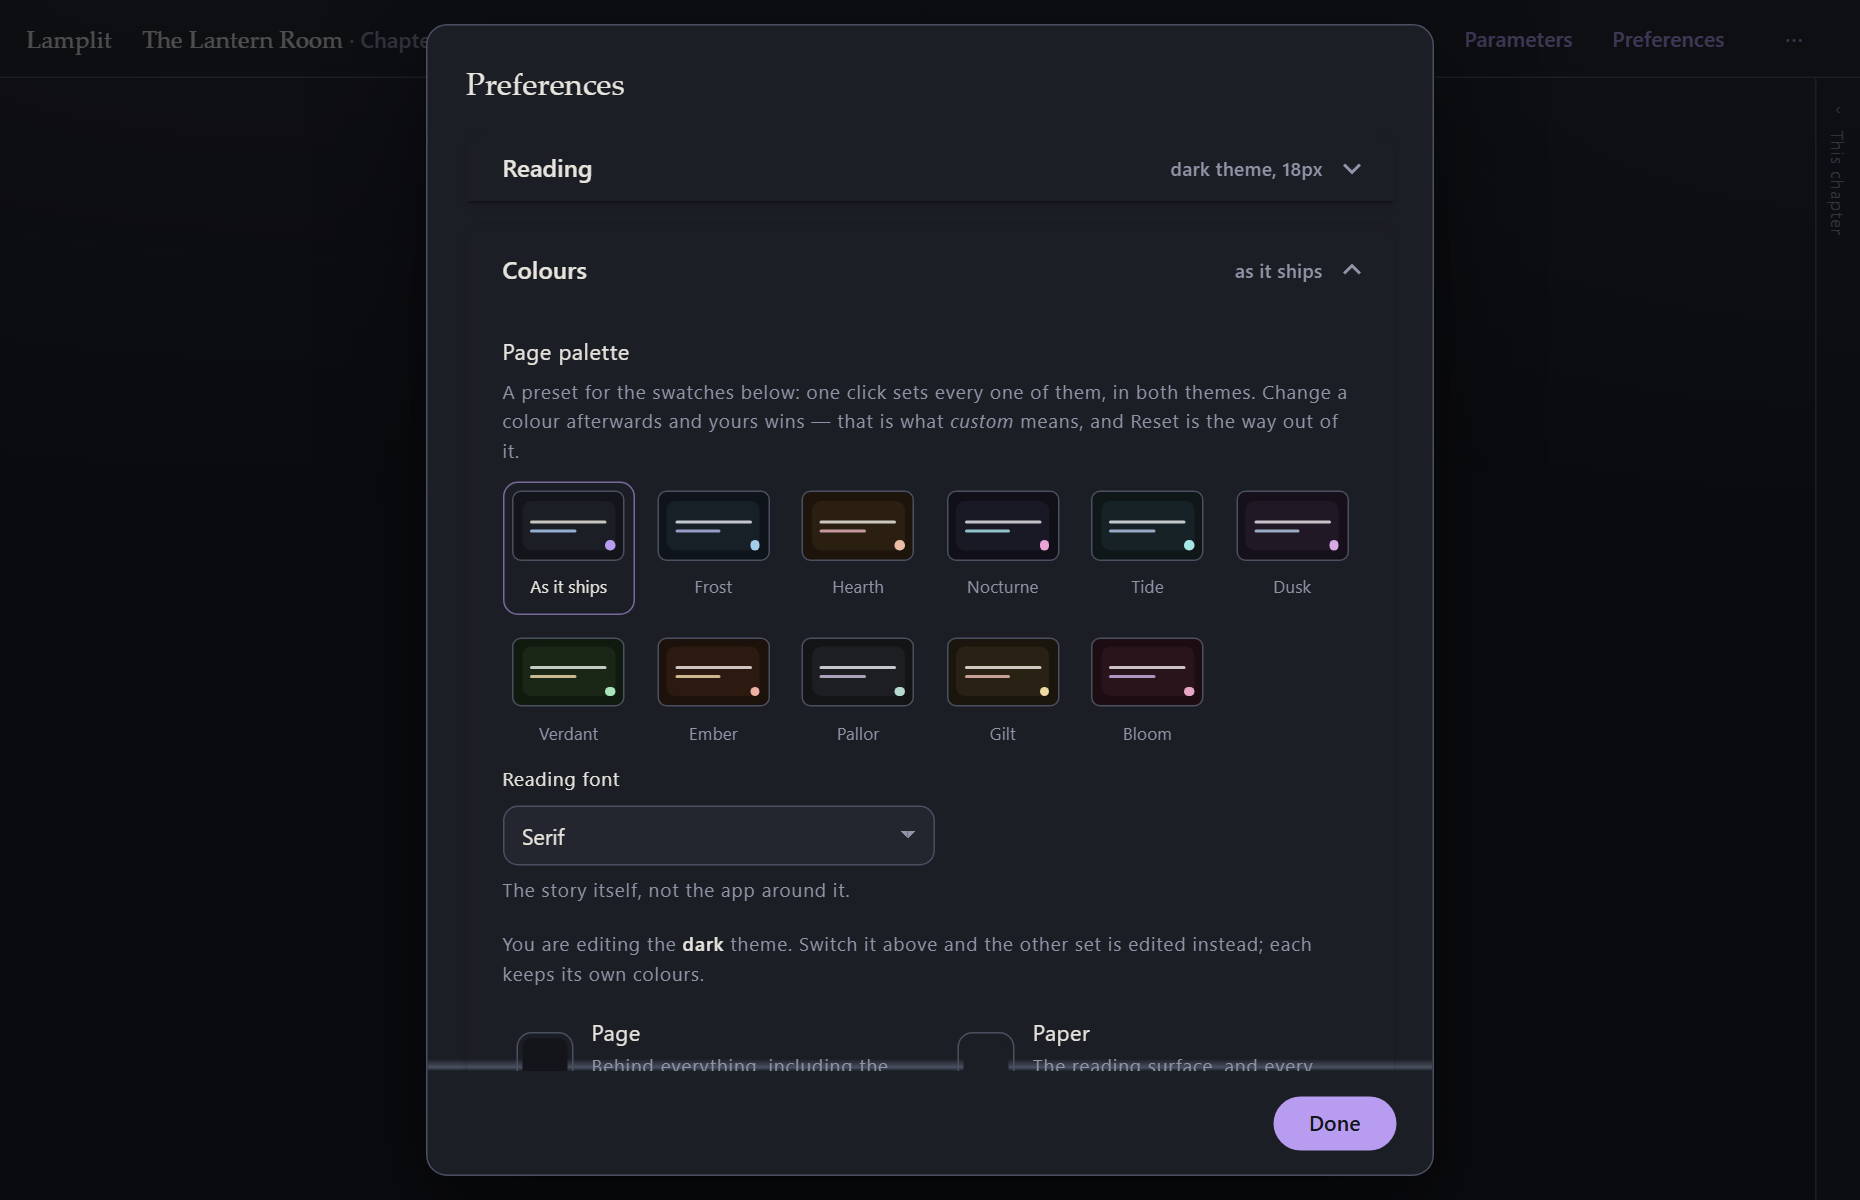
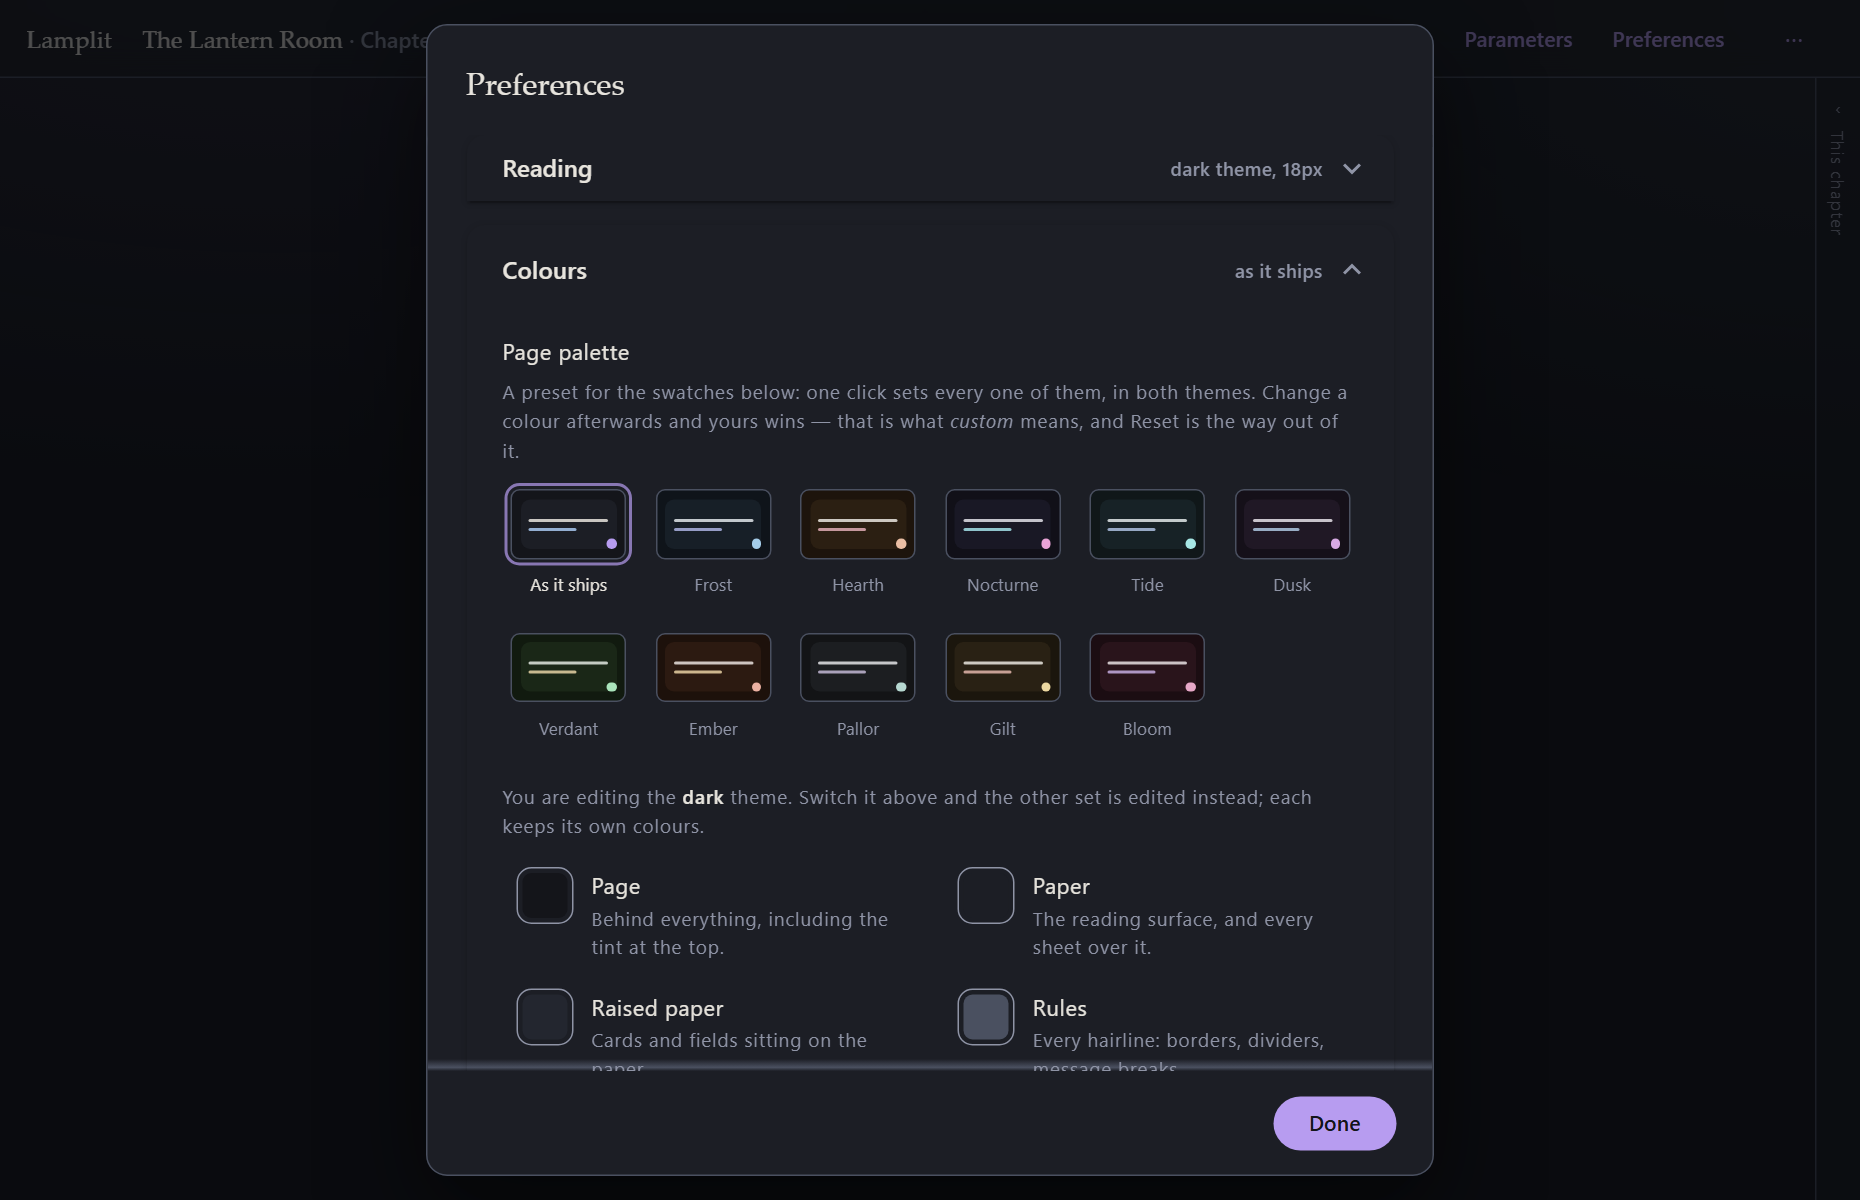
Swatches with a ring you can see, rows that line up, and the font beside the size
Four of the eleven colour swatches were empty boxes. Page, Paper and Raised
paper are within 1.2:1 of the paper they are drawn on, and Rules *is* that
hairline, so the ring round the picker is the whole of what says a swatch is
there — and the ring was `--li-border`, which the app ships at about 2:1 on
purpose. It is `--li-muted` here, over 5:1 in either theme: the one place the
app's own border is the wrong line to draw, because everywhere else there is a
label or a fill saying what the box is and here there is neither.

The two columns drifted because the swatch centred its row. Two swatches share
a grid track, one hint wraps onto a second line and the other does not, and
centring put the two names ten pixels apart down a column meant to read as a
column. They start together now. Eleven names in two columns always leaves one
beside a hole, so the last one takes the row: `$last && $count % 2 === 1`, which
stays right if a twelfth colour is ever added.

The selected page tile was a border round the tile — preview, label and padding
— while the ten beside it showed only the preview's own hairline, which read as
a larger object sitting lower. The ring is now an outline round the preview
itself: outside the box, taking no room, so every page is the same size on the
same line whether it is the chosen one or not.

And **Reading font** was under Colours while **Text size** was under Reading:
two halves of how the story is set, in two sections. It is beside the size now,
[…]

diff --git a/app/src/app/features/preferences/preferences-dialog.ts b/app/src/app/features/preferences/preferences-dialog.ts
@@ -84,6 +84,23 @@ import { ReadAloud } from '../../shared/read-aloud.service';
               </mat-slider>
             </label>
 
+            <!-- The other half of how the story is set, beside the size of it.
+                 It lived under Colours, which is where the page is chosen and
+                 not where the story is set. -->
+            <li-field
+              label="Reading font"
+              class="font"
+              hint="The story itself, not the app around it."
+            >
+              <select (change)="setFont(value($event))">
+                @for (font of fonts; track font.key) {
+                  <option [value]="font.key" [selected]="font.key === ui().font">
+                    {{ font.label }}
+                  </option>
+                }
+              </select>
+            </li-field>
+
             <!-- Read aloud. The device's own voices and nothing sent anywhere,
                  so the list is whatever this machine happens to ship with —
                  which is why the choice is stored by name and a phone that has
@@ -183,28 +200,20 @@ import { ReadAloud } from '../../shared/read-aloud.service';
             }
           </div>
 
-          <li-field
-            label="Reading font"
-            class="font"
-            hint="The story itself, not the app around it."
-          >
-            <select (change)="setFont(value($event))">
-              @for (font of fonts; track font.key) {
-                <option [value]="font.key" [selected]="font.key === ui().font">
-                  {{ font.label }}
-                </option>
-              }
-            </select>
-          </li-field>
-
           <p class="li-hint editing">
             You are editing the <strong>{{ ui().theme }}</strong> theme. Switch it above and the
             other set is edited instead; each keeps its own colours.
           </p>
 
           <div class="swatches">
+            <!-- An odd number of colours in two columns leaves one of them
+                 beside an empty cell; the last one takes the row instead. -->
             @for (swatch of swatches(); track swatch.key) {
-              <label class="swatch" [class.custom]="swatch.custom">
+              <label
+                class="swatch"
+                [class.custom]="swatch.custom"
+                [class.wide]="$last && $count % 2 === 1"
+              >
                 <input
                   type="color"
                   [value]="swatch.colour"
@@ -538,7 +547,7 @@ import { ReadAloud } from '../../shared/read-aloud.service';
       align-items: stretch;
       gap: var(--li-space-xs);
       padding: var(--li-space-xs);
-      border: 1px solid transparent;
+      border: 0;
       border-radius: var(--li-radius-md);
       background: none;
       color: var(--li-muted);
@@ -552,9 +561,18 @@ import { ReadAloud } from '../../shared/read-aloud.service';
       }
 
       &.on {
-        border-color: color-mix(in srgb, var(--li-accent) 60%, transparent);
         color: var(--li-ink);
       }
+    }
+
+    /* The ring goes round the page being chosen rather than round the tile
+       holding it, and it is an outline, which is drawn outside the box and
+       takes no room: every preview is the same size and on the same line
+       whether it is the chosen one or not. As a border on the tile it read as
+       a larger, lower object than the nine beside it. */
+    .palette.on .preview {
+      outline: 2px solid color-mix(in srgb, var(--li-accent) 70%, transparent);
+      outline-offset: 2px;
     }
 
     /* A page in miniature: the tint behind, a sheet on it, two lines of story
@@ -614,9 +632,13 @@ import { ReadAloud } from '../../shared/read-aloud.service';
       gap: var(--li-space-xs) var(--li-space-lg);
     }
 
+    /* Started rather than centred, and this is the whole of why: two
+       swatches share a grid row, the hint under one of them wraps onto a
+       second line and the other does not, and centring puts the two names ten
+       pixels apart down a column that is meant to read as a column. */
     .swatch {
       display: flex;
-      align-items: center;
+      align-items: flex-start;
       gap: var(--li-space-md);
       padding: var(--li-space-xs) var(--li-space-sm);
       border: 1px solid transparent;
@@ -631,6 +653,10 @@ import { ReadAloud } from '../../shared/read-aloud.service';
       &.custom {
         border-color: color-mix(in srgb, var(--li-accent) 45%, transparent);
       }
+
+      &.wide {
+        grid-column: 1 / -1;
+      }
     }
 
     /* The native picker, with the browser's chrome around it pared back to a
@@ -640,7 +666,14 @@ import { ReadAloud } from '../../shared/read-aloud.service';
       width: 2.4rem;
       height: 2.4rem;
       padding: 0;
-      border: 1px solid var(--li-border);
+      /* Muted rather than the app's own border, which is the one place that
+         rule does not hold. Page, Paper and Raised paper are within 1.2:1 of
+         the paper a swatch is drawn on, and Rules is that border itself, so
+         the ring is the whole of what says a swatch is there — and at 2:1 it
+         left four of the eleven reading as empty boxes. Muted is over 5:1 on
+         either paper, which is the contrast it is picked for everywhere
+         else. */
+      border: 1px solid var(--li-muted);
       border-radius: var(--li-radius-md);
       background: none;
       cursor: pointer;
@@ -920,16 +953,20 @@ export class PreferencesDialog {
 
   protected readonly readingSummary = computed(() => {
     const ui = this.ui();
+    // The face only when it is not the one the app ships in, which is the same
+    // test `applyUi` makes before it writes the property at all.
+    const font = READING_FONTS.find((f) => f.key === ui.font);
+    const face = font && font !== READING_FONTS[0] ? `, ${font.label.toLowerCase()}` : '';
     const aloud = ui.readAloud ? ', read aloud' : '';
-    return `${ui.theme} theme, ${ui.fontSize}px${aloud}`;
+    return `${ui.theme} theme, ${ui.fontSize}px${face}${aloud}`;
   });
 
   protected readonly coloursSummary = computed(() => {
     const changed = this.swatches().filter((s) => s.custom).length;
-    const font = READING_FONTS.find((f) => f.key === this.ui().font)?.label.toLowerCase();
     if (changed) return `${changed} changed in ${this.ui().theme}`;
-    if (this.currentPalette()) return paletteLabel(this.currentPalette()).toLowerCase();
-    return font === 'serif' ? 'as it ships' : `${font}`;
+    return this.currentPalette()
+      ? paletteLabel(this.currentPalette()).toLowerCase()
+      : 'as it ships';
   });
 
   /**

diff --git a/e2e/specs/preferences.spec.ts b/e2e/specs/preferences.spec.ts
@@ -50,11 +50,14 @@ test.describe('preferences', () => {
     await app.visit();
     await openPreferences(page);
 
-    // The first section is open on arrival, with all four of its settings.
+    // The first section is open on arrival, with all of its settings — the
+    // font among them, because how the story is set is one question and the
+    // size of it was answered here while the face was answered under Colours.
     await expect(page.getByRole('switch', { name: 'Dark theme' })).toBeVisible();
     await expect(page.getByRole('switch', { name: 'Dialogue on its own line' })).toBeVisible();
     await expect(page.getByRole('switch', { name: 'Show token counts' })).toBeVisible();
     await expect(page.getByRole('slider', { name: 'Text size' })).toBeVisible();
+    await expect(page.getByLabel('Reading font')).toBeVisible();
 
     await page.getByRole('switch', { name: 'Show token counts' }).click();
     await expect
@@ -120,6 +123,112 @@ test.describe('preferences', () => {
     await expect.poll(() => pageColour(page)).toBe(rgb('#123456'));
   });
 
+  /**
+   * A colour swatch is the one control in the app whose fill is not the app's
+   * to choose: three of these are within 1.2:1 of the paper they sit on, and a
+   * fourth is that paper's own hairline. So the ring round them is measured
+   * rather than looked at — 3:1 is what WCAG 1.4.11 asks of the boundary that
+   * identifies a control, and under it a swatch the colour of the surface is
+   * an empty box.
+   */
+  test('every swatch is a box you can see, in both themes', async ({ page, app }) => {
+    await app.visit();
+    await openPreferences(page);
+    await page.getByRole('button', { name: 'Colours' }).first().click();
+
+    const worstRing = () =>
+      page.evaluate(() => {
+        // A custom property holds the `light-dark()` pair it was written as, so
+        // it has to be resolved the way the drawn colour was.
+        const resolve = (value: string) => {
+          const probe = document.createElement('span');
+          probe.style.color = value;
+          document.body.append(probe);
+          const colour = getComputedStyle(probe).color;
+          probe.remove();
+          return colour;
+        };
+        const channels = (colour: string) =>
+          [...colour.matchAll(/[\d.]+/g)].slice(0, 3).map((m) => Number(m[0]));
+        const luminance = (colour: string) => {
+          const [r, g, b] = channels(colour).map((c) => {
+            const channel = c / 255;
+            return channel <= 0.03928 ? channel / 12.92 : ((channel + 0.055) / 1.055) ** 2.4;
+          });
+          return 0.2126 * r + 0.7152 * g + 0.0722 * b;
+        };
+        const contrast = (a: string, b: string) => {
+          const one = luminance(a);
+          const two = luminance(b);
+          return (Math.max(one, two) + 0.05) / (Math.min(one, two) + 0.05);
+        };
+
+        const paper = resolve('var(--li-surface)');
+        const rings = [...document.querySelectorAll('.swatch input')].map(
+          (input) => getComputedStyle(input).borderTopColor,
+        );
+        return {
+          count: rings.length,
+          worst: Math.min(...rings.map((ring) => contrast(ring, paper))),
+        };
+      });
+
+    const dark = await worstRing();
+    expect(dark.count).toBe(11);
+    expect(dark.worst).toBeGreaterThanOrEqual(3);
+
+    await page.getByRole('switch', { name: 'Dark theme' }).click();
+    const light = await worstRing();
+    expect(light.worst).toBeGreaterThanOrEqual(3);
+  });
+
+  test('the swatches line up, and the odd one out takes a row', async ({ page, app }) => {
+    await app.visit();
+    await openPreferences(page);
+    await page.getByRole('button', { name: 'Colours' }).first().click();
+
+    const grid = await page.evaluate(() => {
+      const swatches = [...document.querySelectorAll('.swatches')][0]!.children;
+      return [...swatches].map((swatch) => ({
+        left: Math.round(swatch.getBoundingClientRect().x),
+        width: Math.round(swatch.getBoundingClientRect().width),
+        // What a reader lines a column up by: the name, not the box round it.
+        name: Math.round(swatch.querySelector('.name')!.getBoundingClientRect().y),
+      }));
+    });
+
+    // Two columns, so the names come in pairs — and each pair is one line.
+    const columns = new Set(grid.map((swatch) => swatch.left));
+    expect(columns.size).toBe(2);
+    for (let i = 0; i + 1 < grid.length - 1; i += 2) {
+      expect(grid[i].name).toBe(grid[i + 1].name);
+    }
+
+    // Eleven in two columns leaves one; it has the row rather than a hole.
+    const last = grid[grid.length - 1];
+    expect(grid.length % 2).toBe(1);
+    expect(last.width).toBeGreaterThan(grid[0].width * 1.8);
+  });
+
+  test('the chosen page is the same size as the pages beside it', async ({ page, app }) => {
+    await app.visit();
+    await openPreferences(page);
+    await page.getByRole('button', { name: 'Colours' }).first().click();
+
+    const previews = await page.locator('.palette .preview').evaluateAll((nodes) =>
+      nodes.map((node) => {
+        const box = node.getBoundingClientRect();
+        return [Math.round(box.y), Math.round(box.width), Math.round(box.height)].join('/');
+      }),
+    );
+    const chosen = await page.locator('.palette.on').count();
+
+    // One is selected, and the ring it wears is an outline: it takes no room,
+    // so its page is the same box on the same line as the ten beside it.
+    expect(chosen).toBe(1);
+    expect(new Set(previews.slice(0, 6)).size).toBe(1);
+  });
+
   test('the reading font changes the story and leaves the app alone', async ({ page, app }) => {
     await app.visit();
     // The reading face is only visible on prose, so there has to be some.
@@ -127,7 +236,6 @@ test.describe('preferences', () => {
     await waitForTurn(page);
 
     await openPreferences(page);
-    await page.getByRole('button', { name: 'Colours' }).first().click();
     await page.getByLabel('Reading font').selectOption('mono');
     await page.getByRole('button', { name: 'Done' }).click();
     await expect(page.getByRole('heading', { name: 'Preferences' })).toBeHidden();

diff --git a/docs/reading-and-writing.md b/docs/reading-and-writing.md
@@ -211,6 +211,8 @@ away underneath.
   already break their own lines look the same either way.
 - **Show token counts** — the line under each answer.
 - **Text size** — 14 to 26 pixels.
+- **Reading font** — the serif it ships with, a sans-serif, or a monospace, all from fonts your
+  computer already has. It sets the story itself; the app around it stays as it is.
 - **Read replies aloud**, and under it the **voice** and the **reading speed** — see below.
 
 ![The same chapter, light](images/light.png)
@@ -271,8 +273,6 @@ when it moves.
 
 - **Each theme keeps its own set.** Editing while the dark theme is on edits the dark colours;
   switch to light in **Reading** and you are editing the light ones. Neither touches the other.
-- **Reading font** — the serif it ships with, a sans-serif, or a monospace, all from fonts your
-  computer already has. It sets the story itself; the app around it stays as it is.
 - **Reset the … colours** puts one theme back to whatever is underneath — the palette you picked,
   or what Lamplit ships — and asks first. It clears only what you changed, so a colour you never
   touched cannot drift.
